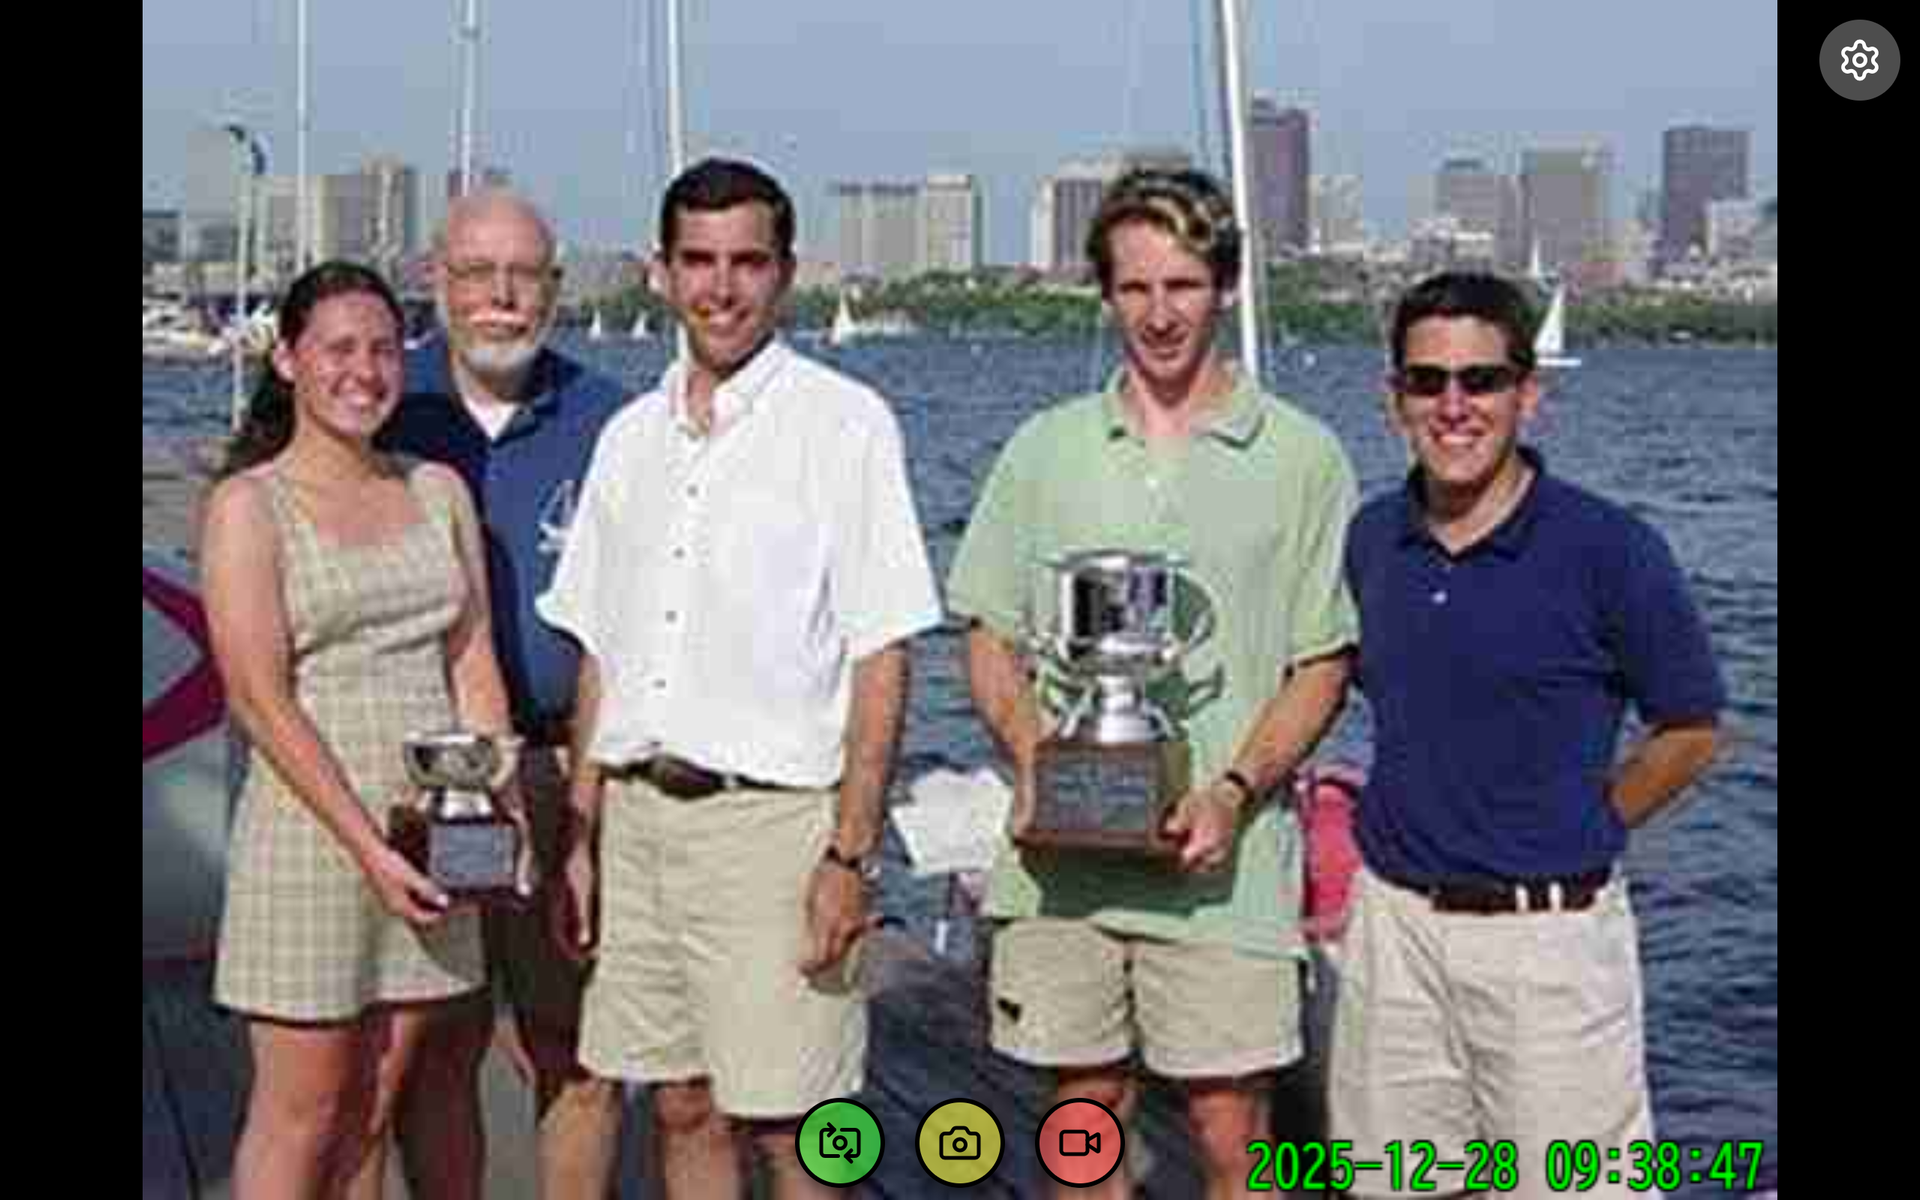
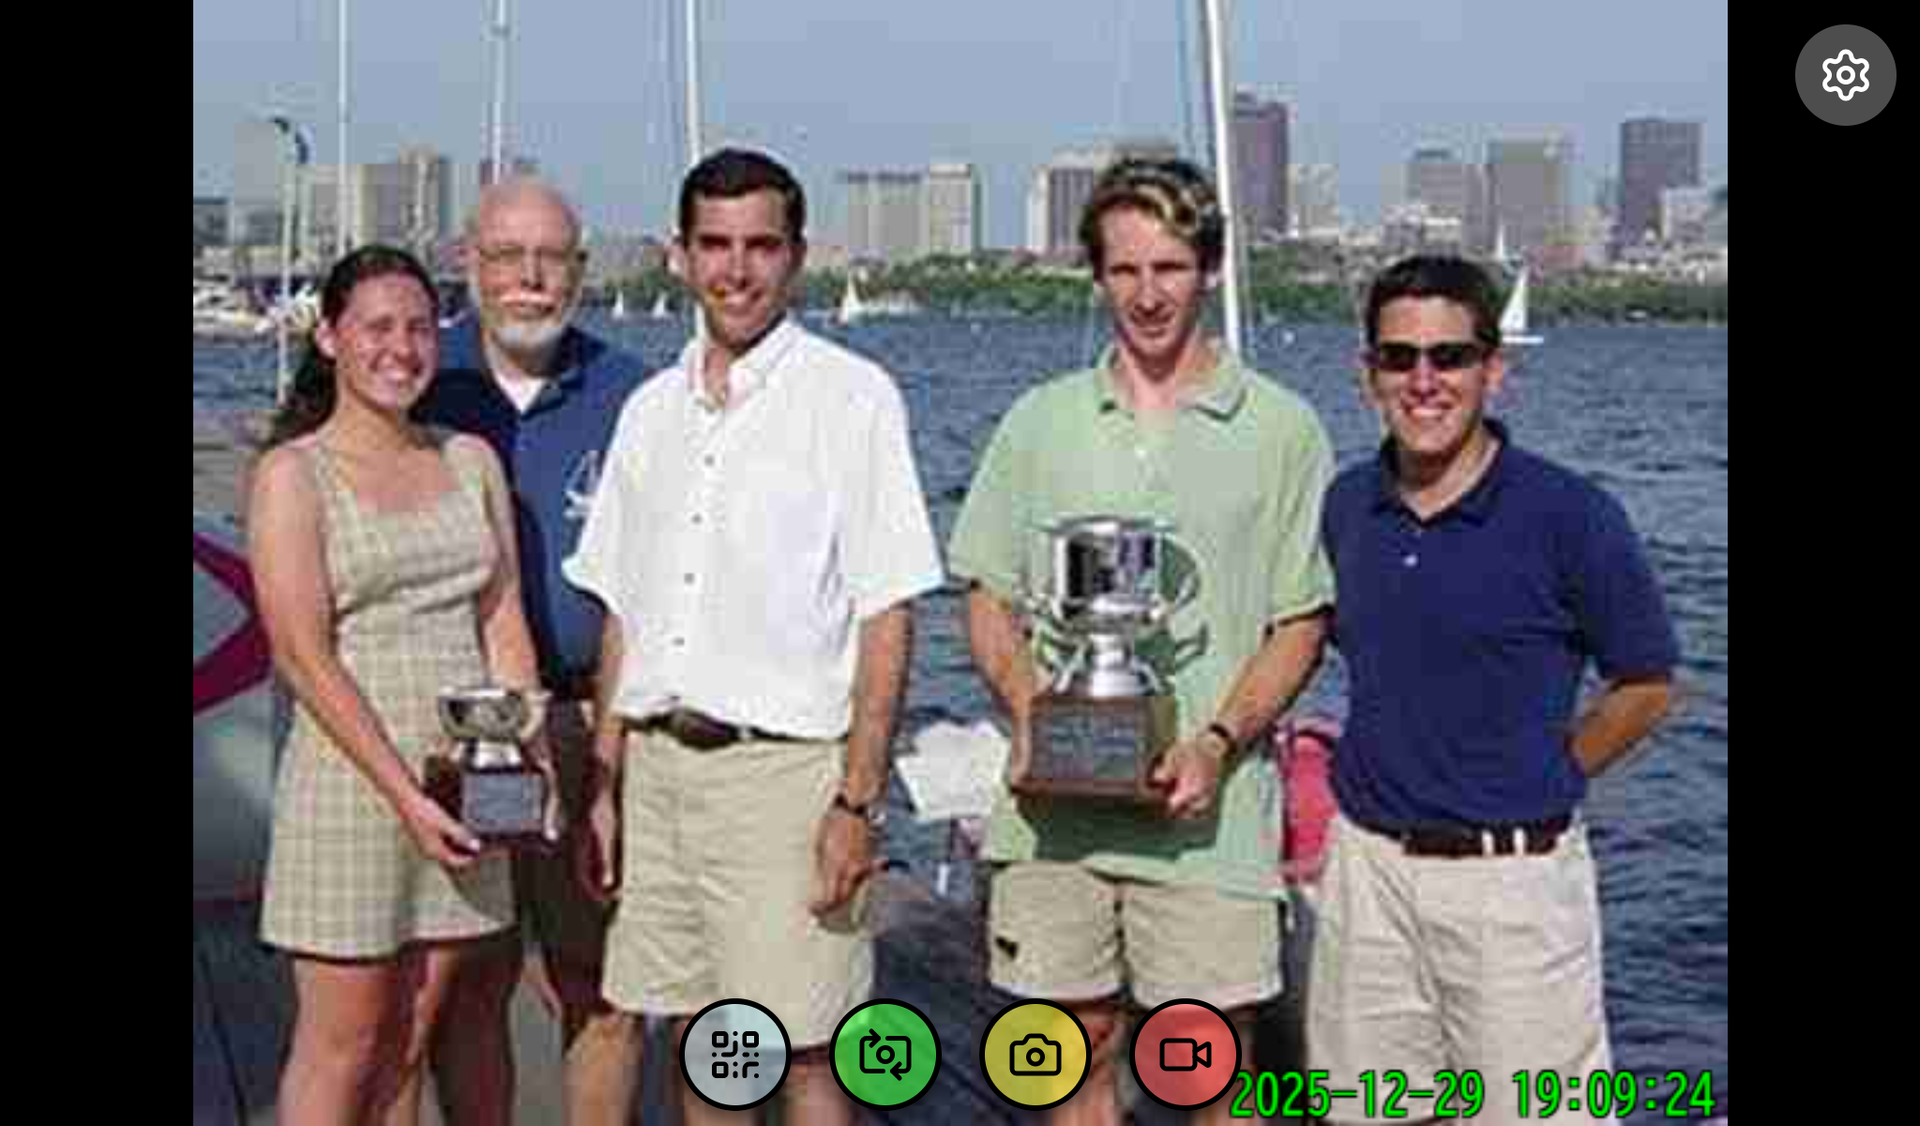
update screenshots

diff --git a/vite.config.js b/vite.config.js
@@ -61,7 +61,7 @@ export default defineConfig(({ mode }) => ({
           },
           {
             "src": "screenshot-desktop.png",
-            "sizes": "1920x1200",
+            "sizes": "1920x1126",
             "type": "image/png",
             "form_factor": "wide",
             "label": "Desktop view of the app"
